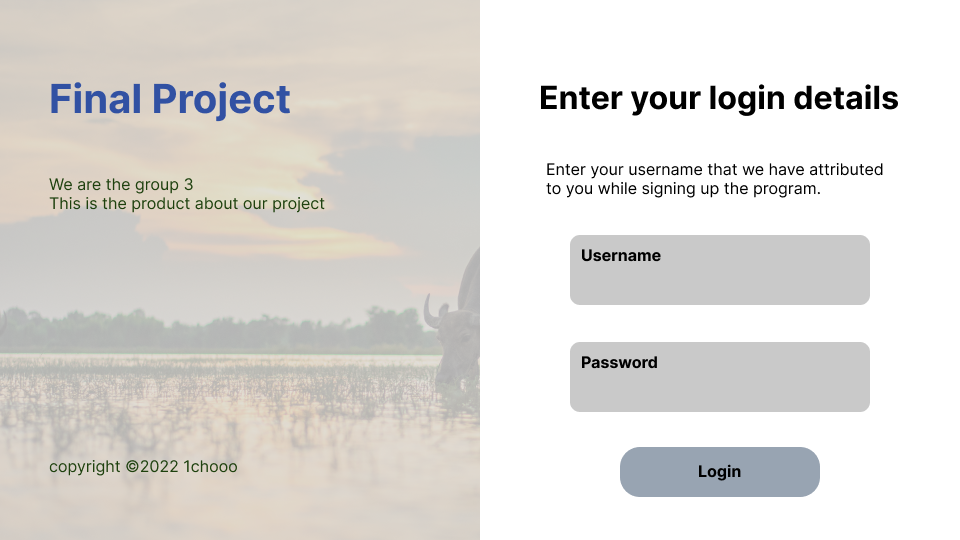
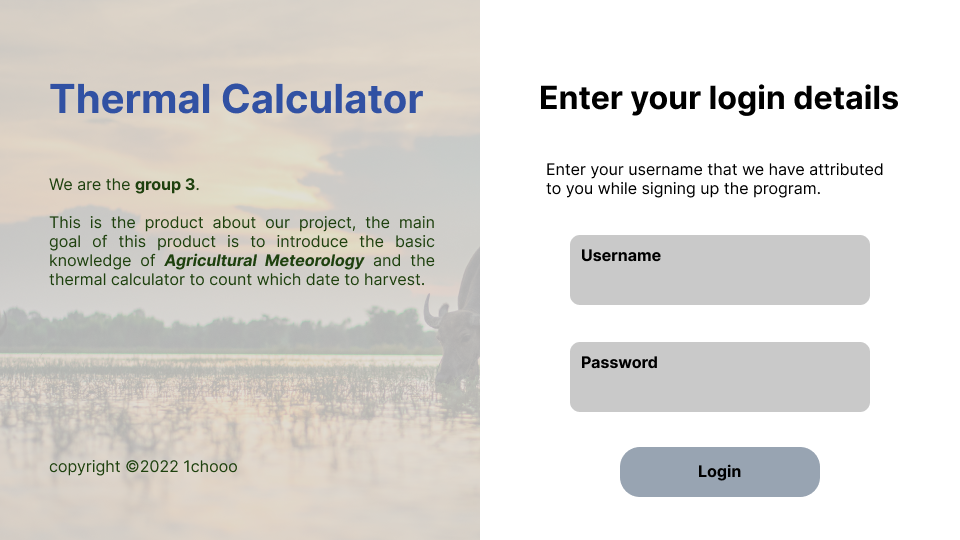
Fix: README.md and login page

Changed region(s): [[0.0312, 0.3259, 0.4688, 0.5333], [0.0312, 0.1481, 0.4375, 0.237]]

diff --git a/gui/login/frame.py b/gui/login/frame.py
@@ -80,7 +80,7 @@ class LoginFrame:
         """
             Add image to the background
         """
-        self.bg_img = Image.open('./assets/imgs/Login.jpg')
+        self.bg_img = Image.open('./assets/imgs/Login.png')
         print(self.bg_img)
         self.tk_bg_img = ImageTk.PhotoImage(self.bg_img)
         print(self.tk_bg_img)

diff --git a/README.md b/README.md
@@ -1,4 +1,8 @@
-# Tkinter-gui
+# Thermal Calculator
+
+[![project badge](https://img.shields.io/badge/1chooo-thermal__calculator-informational)](https://github.com/1chooo/thermal-calculator)
+[![Made with Python](https://img.shields.io/badge/Python->=3.7-blue?logo=python&logoColor=white)](https://python.org "Go to Python homepage")
+[![License](https://img.shields.io/badge/License-MIT-blue)](./LICENSE "Go to license section")
 
 ### Topic: Find Root
 
